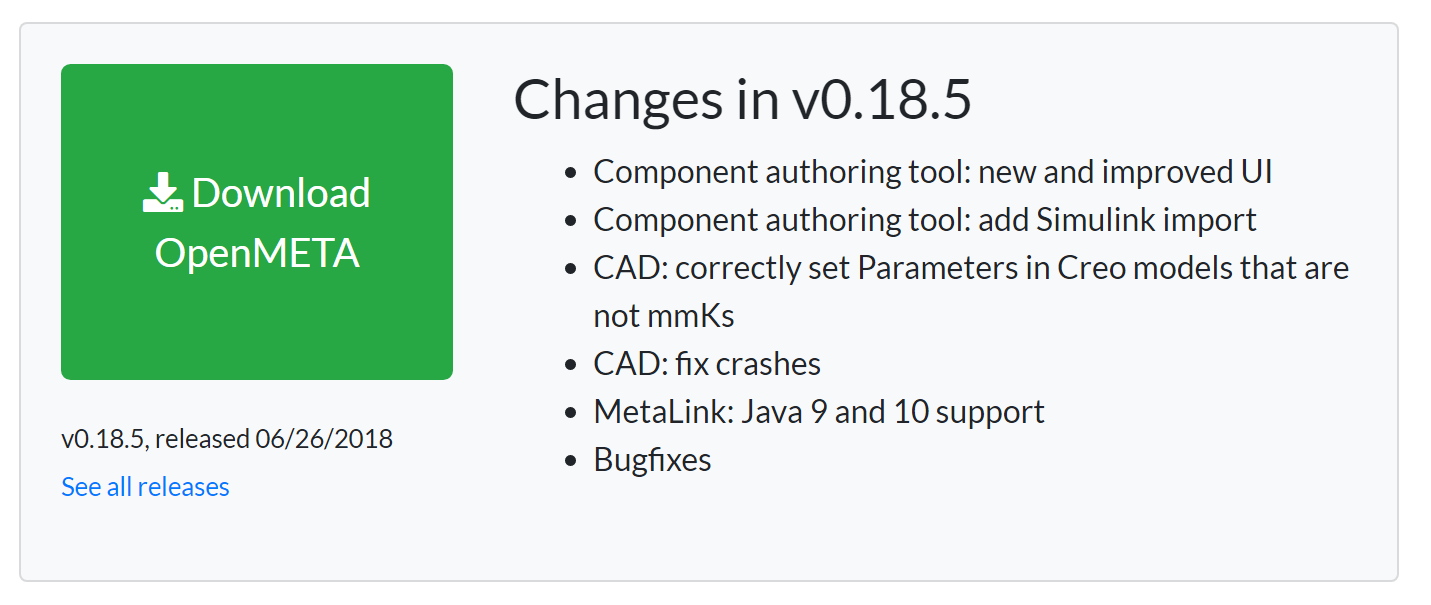
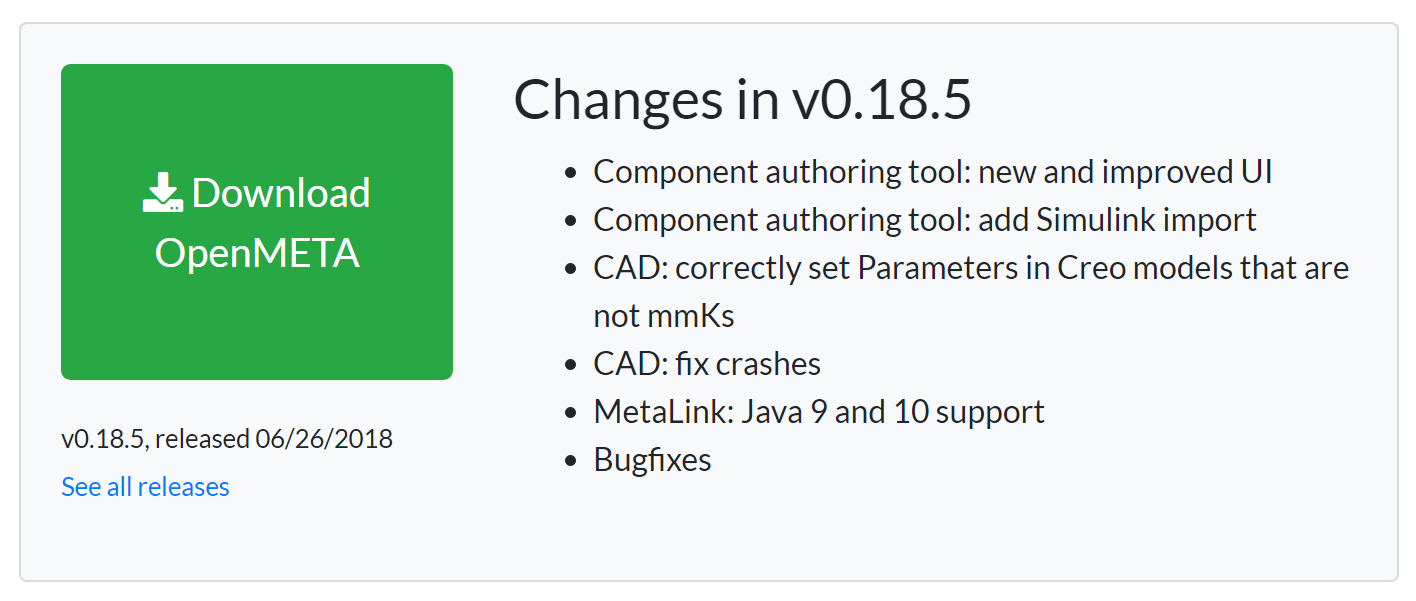
OPENMETA-517 Constrain images sizes on installation page.

diff --git a/docs/source/getting_started/installation/installation.rst b/docs/source/getting_started/installation/installation.rst
@@ -32,6 +32,7 @@ Follow the steps below to install OpenMETA:
    <https://openmeta.metamorphsoftware.com/releases>`_ on the OpenMETA website.
 
    .. image:: images/downloadPage.png
+      :width: 708 px
 
 2. After the download is complete, run the installer  ``META_<version>.exe``
    where *<version>* corresponds to the version you downloaded.
@@ -39,6 +40,7 @@ Follow the steps below to install OpenMETA:
    **Install** when the license dialog appears.
 
    .. image:: images/licenseDialog.png
+      :width: 481 px
 
 4. Click **Yes** if prompted for permission to make changes to your system.
 
